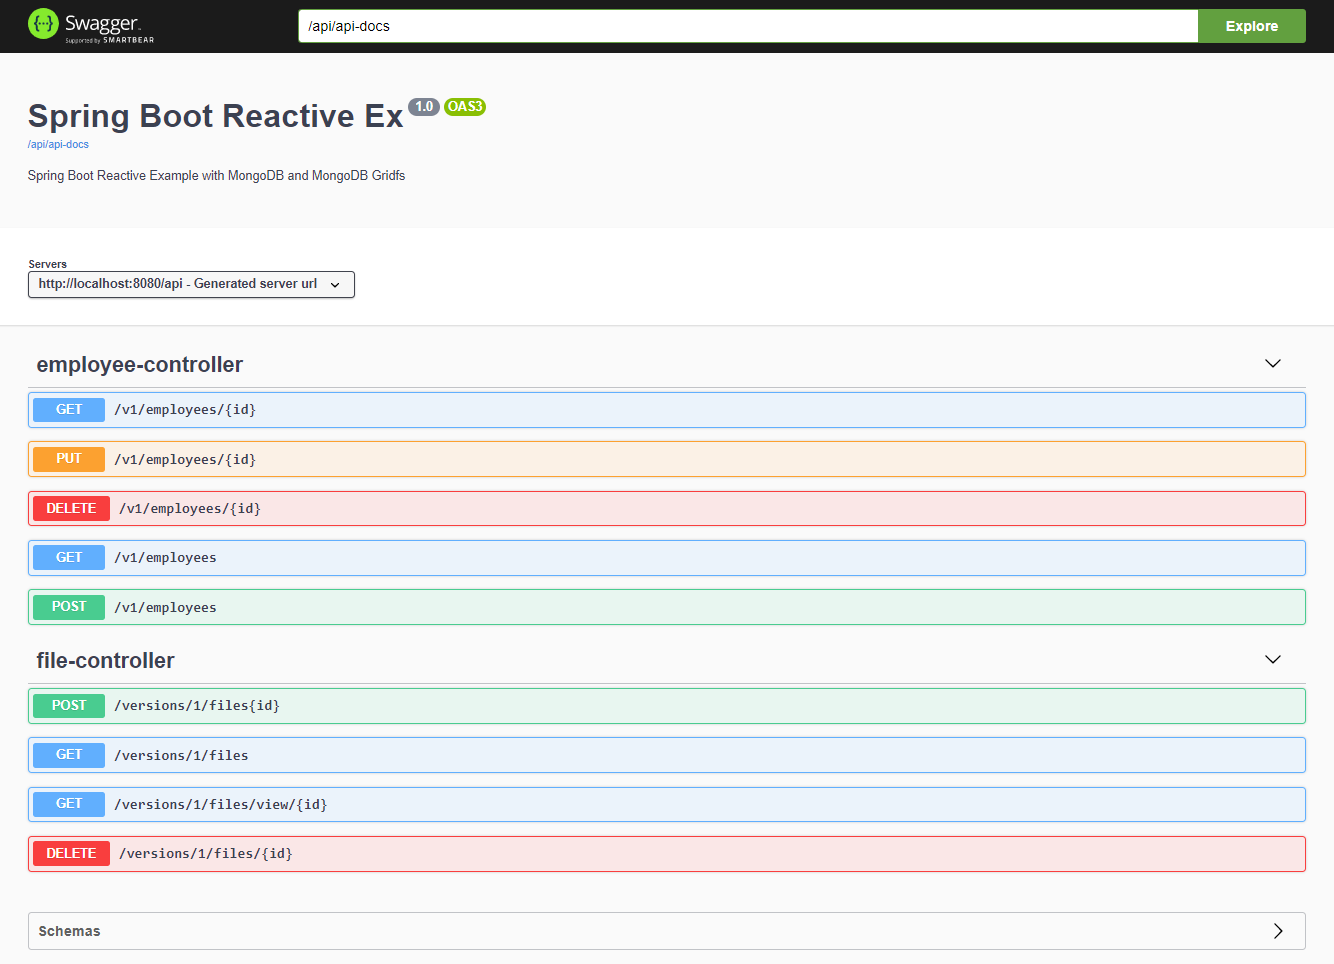
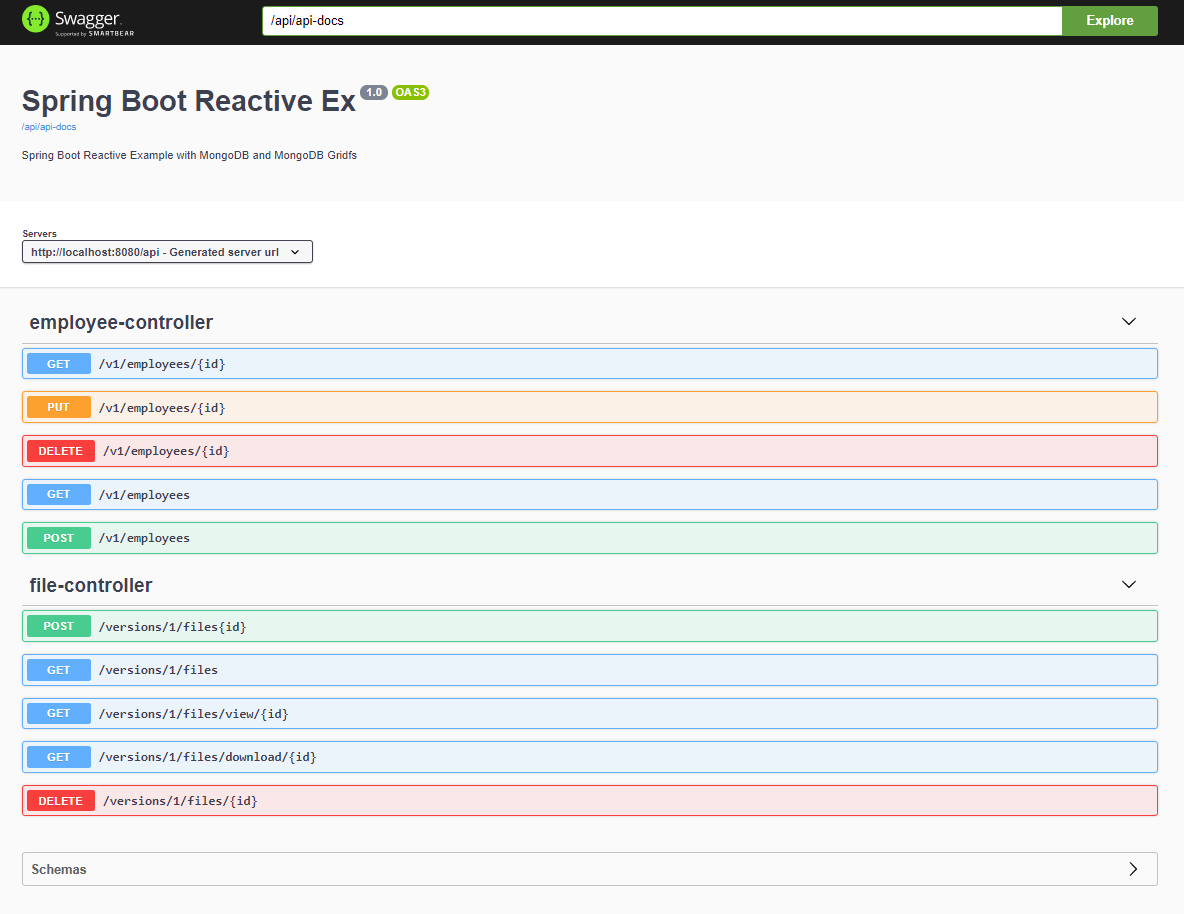
Initial commit

Changed region(s): [[0.0, 0.2451, 1.0, 0.9803], [0.0, 0.0, 1.0, 0.0613], [0.0, 0.0919, 0.375, 0.2144]]

diff --git a/src/main/java/com/nrkt/springbootreactivemongodb/api/FileController.java b/src/main/java/com/nrkt/springbootreactivemongodb/api/FileController.java
@@ -2,7 +2,6 @@ package com.nrkt.springbootreactivemongodb.api;
 
 import com.nrkt.springbootreactivemongodb.dto.response.FileResponse;
 import com.nrkt.springbootreactivemongodb.service.fileoperation.FileService;
-import io.swagger.v3.oas.annotations.Hidden;
 import lombok.AccessLevel;
 import lombok.RequiredArgsConstructor;
 import lombok.experimental.FieldDefaults;
@@ -49,7 +48,6 @@ public class FileController {
 
     @GetMapping("/files/download/{id}")
     @ResponseStatus(HttpStatus.OK)
-    @Hidden
     public Flux<Void> downloadFile(@PathVariable String id, ServerWebExchange exchange) {
         return fileService.getFile(id)
                 .flatMapMany(resource -> {
